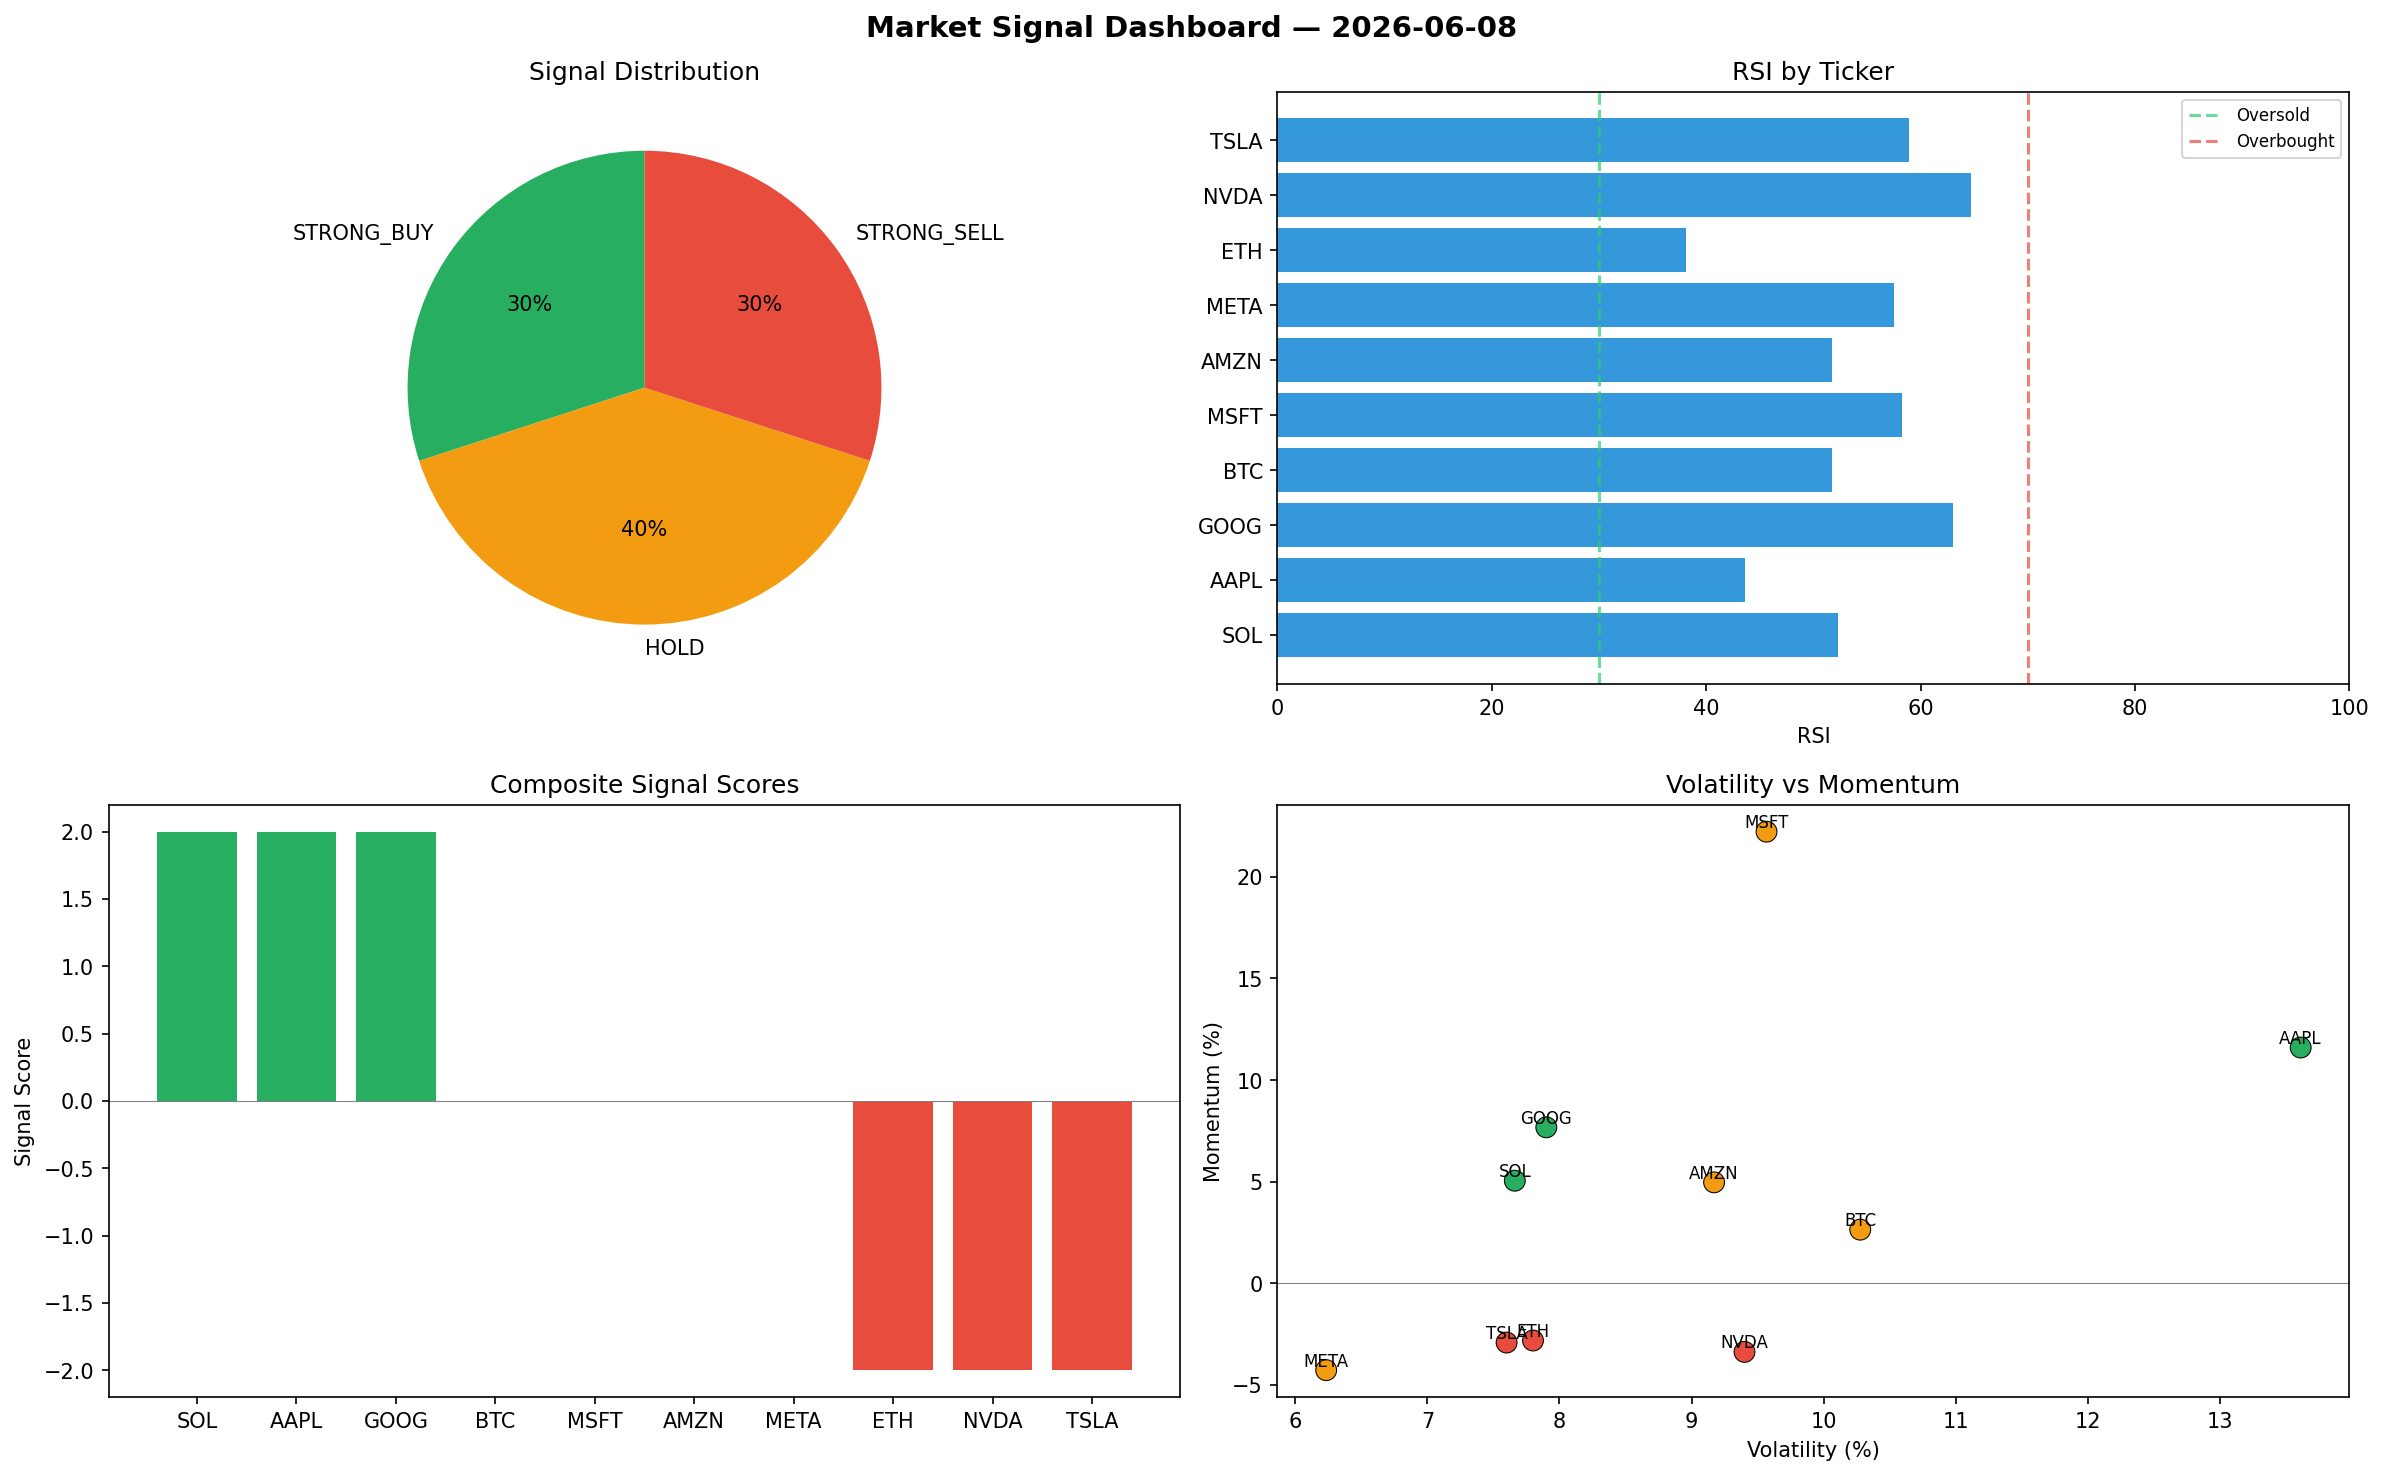
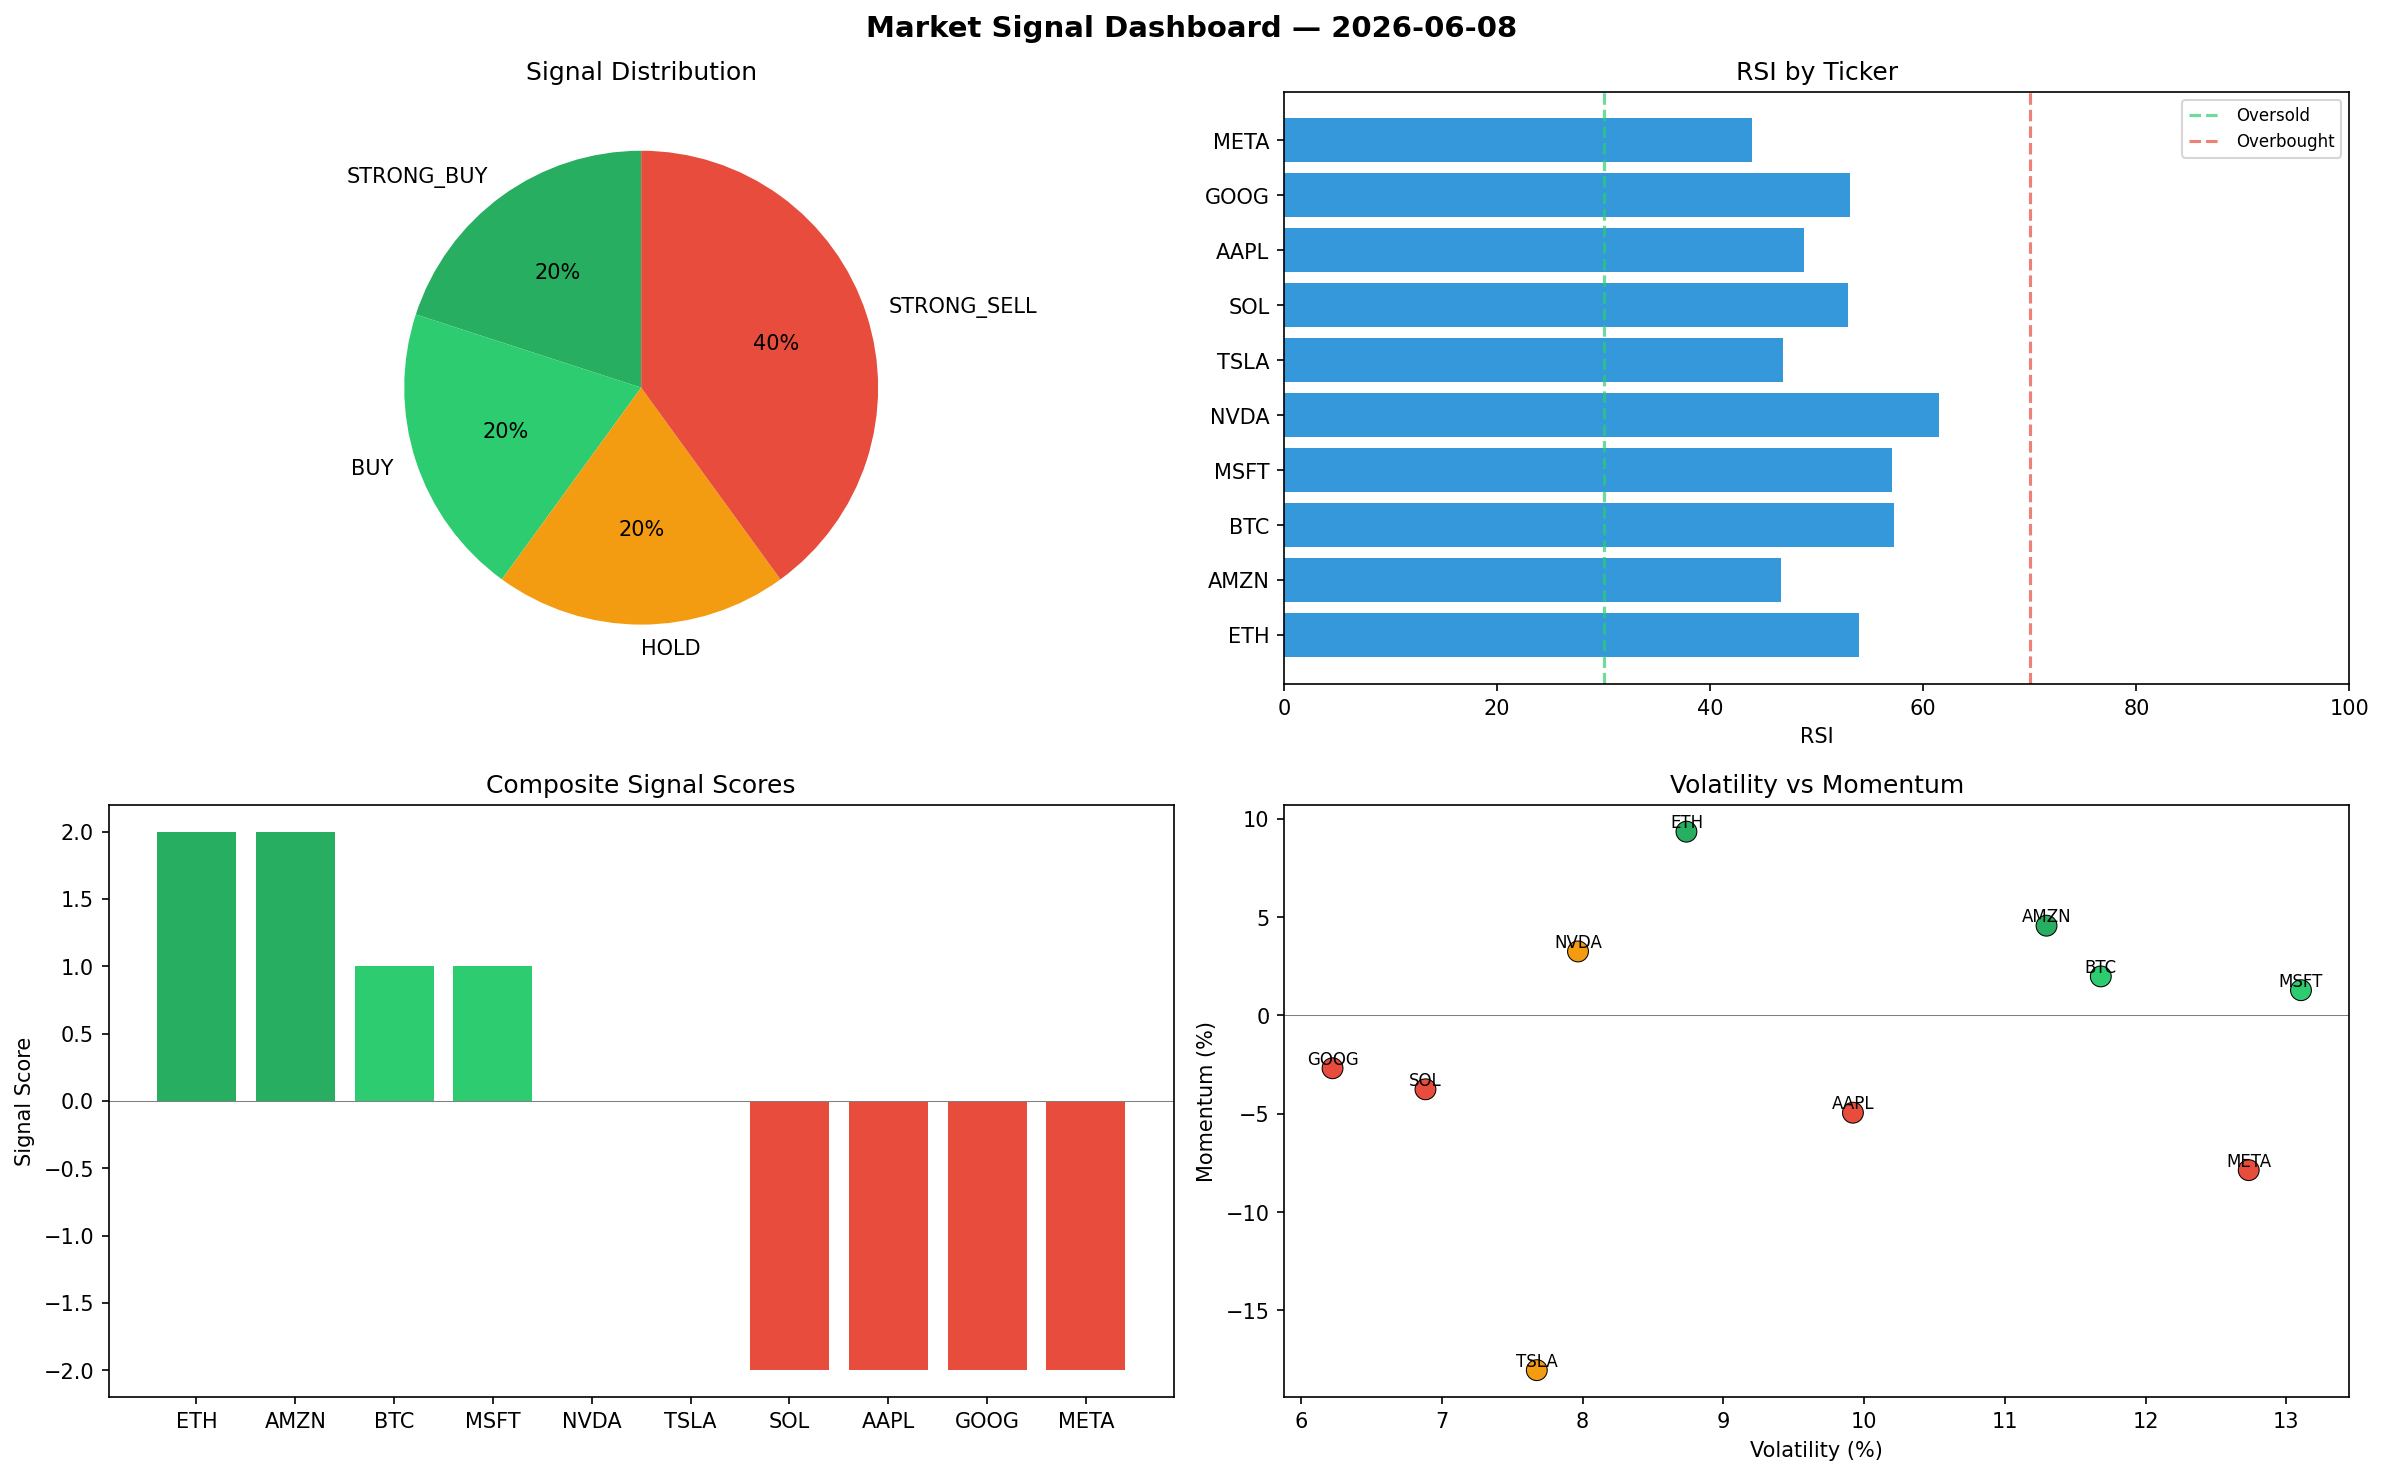
automated-bots: market signals 2026-06-08T22:07

diff --git a/logs/2026-06-08.md b/logs/2026-06-08.md
@@ -1,6 +1,6 @@
 # Market Signal Report — 2026-06-08
 
-**Run ID:** `0c29a1441b` | **Buy:** 3 | **Sell:** 3 | **Hold:** 4
+**Run ID:** `8be0a1b096` | **Buy:** 4 | **Sell:** 4 | **Hold:** 2
 
 ![Dashboard](2026-06-08_dashboard.png)
 
@@ -8,28 +8,28 @@
 
 | Ticker | Price | Signal | Score | RSI | Momentum | Confidence |
 |--------|-------|--------|-------|-----|----------|------------|
-| SOL | $2524.63 | **STRONG_BUY** | 2 | 52.28 | 0.0504 | 0.5 |
-| AAPL | $2551.01 | **STRONG_BUY** | 2 | 43.58 | 0.116 | 0.5 |
-| GOOG | $2947.25 | **STRONG_BUY** | 2 | 63.04 | 0.0767 | 0.5 |
-| BTC | $1874.19 | **HOLD** | 0 | 51.69 | 0.0263 | 0.0 |
-| MSFT | $949.65 | **HOLD** | 0 | 58.29 | 0.2223 | 0.0 |
-| AMZN | $2769.83 | **HOLD** | 0 | 51.74 | 0.0496 | 0.0 |
-| META | $1334.81 | **HOLD** | 0 | 57.51 | -0.0429 | 0.0 |
-| ETH | $2211.57 | **STRONG_SELL** | -2 | 38.15 | -0.0283 | 0.5 |
-| NVDA | $902.49 | **STRONG_SELL** | -2 | 64.71 | -0.0339 | 0.5 |
-| TSLA | $1256.27 | **STRONG_SELL** | -2 | 58.93 | -0.0293 | 0.5 |
+| ETH | $2052.86 | **STRONG_BUY** | 2 | 53.98 | 0.0934 | 0.5 |
+| AMZN | $2294.71 | **STRONG_BUY** | 2 | 46.67 | 0.0456 | 0.5 |
+| BTC | $2646.81 | **BUY** | 1 | 57.23 | 0.0198 | 0.25 |
+| MSFT | $2307.77 | **BUY** | 1 | 57.08 | 0.0128 | 0.25 |
+| NVDA | $3215.75 | **HOLD** | 0 | 61.47 | 0.0325 | 0.0 |
+| TSLA | $3264.52 | **HOLD** | 0 | 46.83 | -0.1804 | 0.0 |
+| SOL | $834.23 | **STRONG_SELL** | -2 | 52.95 | -0.0376 | 0.5 |
+| AAPL | $623.42 | **STRONG_SELL** | -2 | 48.77 | -0.0495 | 0.5 |
+| GOOG | $4824.31 | **STRONG_SELL** | -2 | 53.11 | -0.0269 | 0.5 |
+| META | $3717.61 | **STRONG_SELL** | -2 | 43.9 | -0.0787 | 0.5 |
 
 ## Delta vs Yesterday
 
 | Ticker | Today | Yesterday | Price Change | Signal Changed |
 |--------|-------|-----------|-------------|----------------|
-| SOL | STRONG_BUY | BUY | 📉 -14.12% | ⚠ YES |
-| AAPL | STRONG_BUY | SELL | 📉 -14.16% | ⚠ YES |
-| GOOG | STRONG_BUY | STRONG_BUY | 📈 24.13% | — |
-| BTC | HOLD | STRONG_BUY | 📉 -59.71% | ⚠ YES |
-| MSFT | HOLD | HOLD | 📉 -65.45% | — |
-| AMZN | HOLD | HOLD | 📉 -24.63% | — |
-| META | HOLD | BUY | 📉 -69.41% | ⚠ YES |
-| ETH | STRONG_SELL | STRONG_BUY | 📉 -47.35% | ⚠ YES |
-| NVDA | STRONG_SELL | STRONG_SELL | 📈 132.7% | — |
-| TSLA | STRONG_SELL | STRONG_SELL | 📉 -66.45% | — |
+| ETH | STRONG_BUY | STRONG_BUY | 📉 -51.13% | — |
+| AMZN | STRONG_BUY | HOLD | 📉 -37.56% | ⚠ YES |
+| BTC | BUY | STRONG_BUY | 📉 -43.1% | ⚠ YES |
+| MSFT | BUY | HOLD | 📉 -16.04% | ⚠ YES |
+| NVDA | HOLD | STRONG_SELL | 📈 729.14% | ⚠ YES |
+| TSLA | HOLD | STRONG_SELL | 📉 -12.81% | ⚠ YES |
+| SOL | STRONG_SELL | BUY | 📉 -71.62% | ⚠ YES |
+| AAPL | STRONG_SELL | SELL | 📉 -79.02% | ⚠ YES |
+| GOOG | STRONG_SELL | STRONG_BUY | 📈 103.19% | ⚠ YES |
+| META | STRONG_SELL | BUY | 📉 -14.79% | ⚠ YES |
